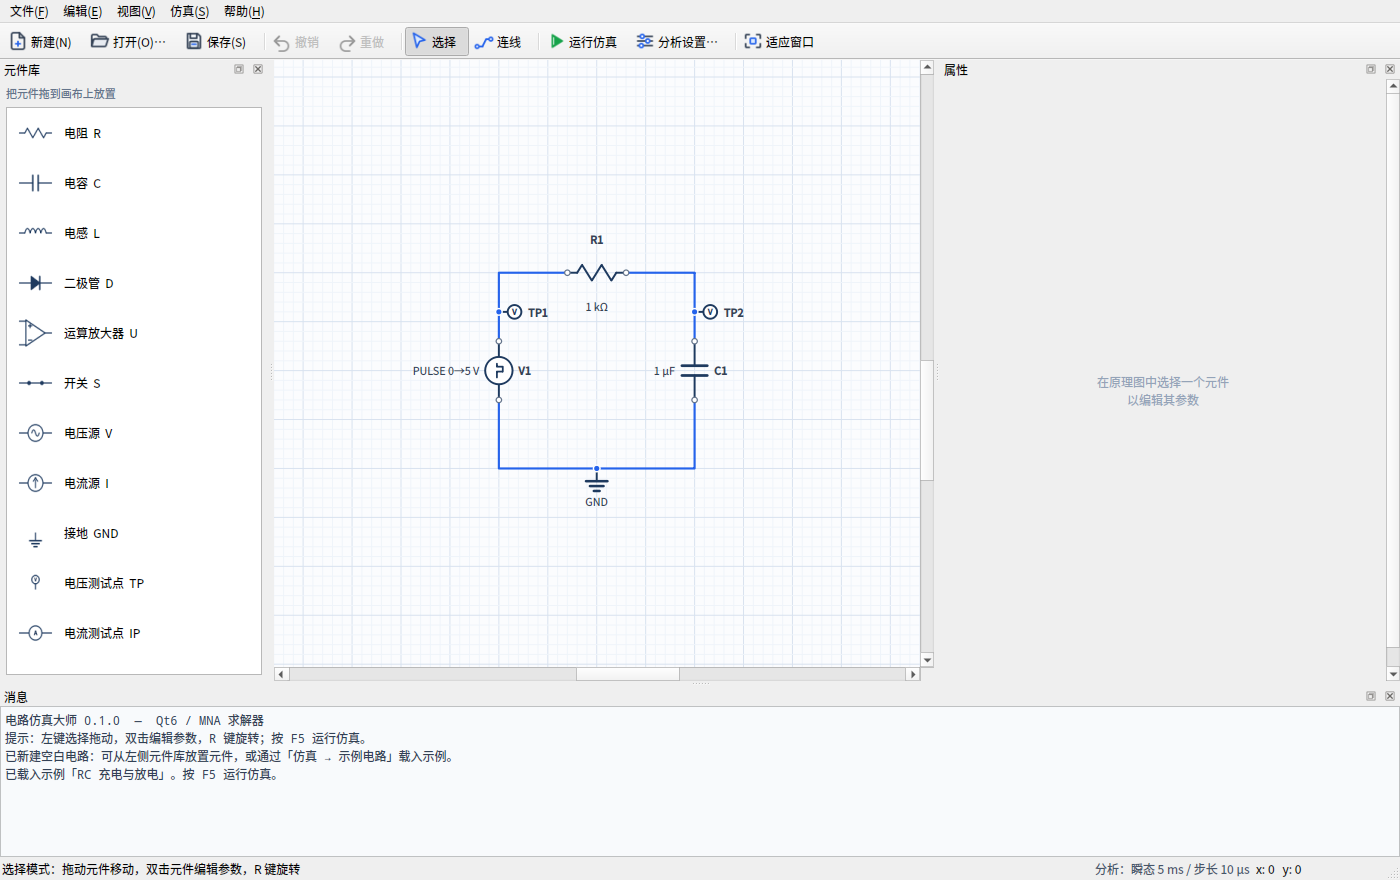
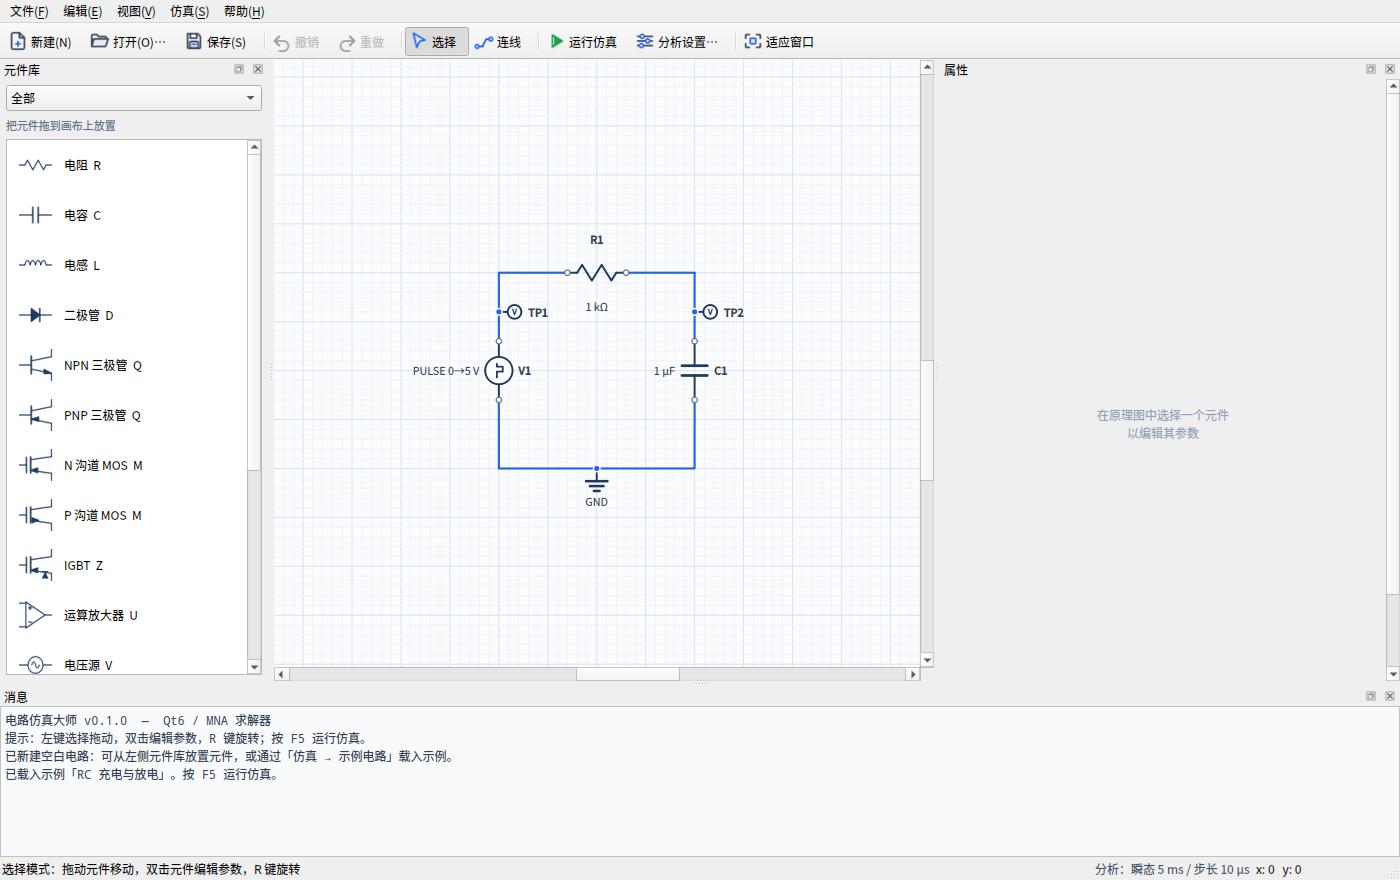
feat(ui): 元件库改为分类下拉筛选
- 左侧元件库顶部新增下拉框：全部 / 基础 / 半导体 / 电源 / 开关与接地 / 测试点
- 元件按用途归类，切换分类只重建列表，拖拽行为不变
- 修复一个中文比较的坑：分类名用 QLatin1String 比较时，UTF-8 字节被按
  Latin-1 解释，与下拉框里的 QString 永远不相等，导致列表一开始是空的；
  改用 QStringLiteral
- 测试新增 libraryFiltersByCategory：校验各分类数量、总和与切回「全部」

diff --git a/src/ui/MainWindow.cpp b/src/ui/MainWindow.cpp
@@ -17,6 +17,7 @@
 
 #include <QAbstractItemView>
 #include <QAction>
+#include <QComboBox>
 #include <QActionGroup>
 #include <QApplication>
 #include <QCloseEvent>
@@ -591,30 +592,39 @@ void MainWindow::createToolBar()
 
 void MainWindow::buildLibrary()
 {
+    // 元件按用途分类；下拉框切换分类，列表只显示该类的元件
     struct Entry {
         ComponentType type;
         QString text;
+        QString category;
     };
     const QVector<Entry> entries = {
-        {ComponentType::Resistor, QStringLiteral("电阻  R")},
-        {ComponentType::Capacitor, QStringLiteral("电容  C")},
-        {ComponentType::Inductor, QStringLiteral("电感  L")},
-        {ComponentType::Diode, QStringLiteral("二极管  D")},
-        {ComponentType::Npn, QStringLiteral("NPN 三极管  Q")},
-        {ComponentType::Pnp, QStringLiteral("PNP 三极管  Q")},
-        {ComponentType::Nmos, QStringLiteral("N 沟道 MOS  M")},
-        {ComponentType::Pmos, QStringLiteral("P 沟道 MOS  M")},
-        {ComponentType::Igbt, QStringLiteral("IGBT  Z")},
-        {ComponentType::OpAmp, QStringLiteral("运算放大器  U")},
-        {ComponentType::Switch, QStringLiteral("开关  S")},
-        {ComponentType::VoltageSource, QStringLiteral("电压源  V")},
-        {ComponentType::CurrentSource, QStringLiteral("电流源  I")},
-        {ComponentType::Ground, QStringLiteral("接地  GND")},
-        {ComponentType::Probe, QStringLiteral("电压测试点  TP")},
-        {ComponentType::CurrentProbe, QStringLiteral("电流测试点  IP")},
+        {ComponentType::Resistor, QStringLiteral("电阻  R"), QStringLiteral("基础")},
+        {ComponentType::Capacitor, QStringLiteral("电容  C"), QStringLiteral("基础")},
+        {ComponentType::Inductor, QStringLiteral("电感  L"), QStringLiteral("基础")},
+        {ComponentType::Diode, QStringLiteral("二极管  D"), QStringLiteral("半导体")},
+        {ComponentType::Npn, QStringLiteral("NPN 三极管  Q"), QStringLiteral("半导体")},
+        {ComponentType::Pnp, QStringLiteral("PNP 三极管  Q"), QStringLiteral("半导体")},
+        {ComponentType::Nmos, QStringLiteral("N 沟道 MOS  M"), QStringLiteral("半导体")},
+        {ComponentType::Pmos, QStringLiteral("P 沟道 MOS  M"), QStringLiteral("半导体")},
+        {ComponentType::Igbt, QStringLiteral("IGBT  Z"), QStringLiteral("半导体")},
+        {ComponentType::OpAmp, QStringLiteral("运算放大器  U"), QStringLiteral("半导体")},
+        {ComponentType::VoltageSource, QStringLiteral("电压源  V"), QStringLiteral("电源")},
+        {ComponentType::CurrentSource, QStringLiteral("电流源  I"), QStringLiteral("电源")},
+        {ComponentType::Switch, QStringLiteral("开关  S"), QStringLiteral("开关与接地")},
+        {ComponentType::Ground, QStringLiteral("接地  GND"), QStringLiteral("开关与接地")},
+        {ComponentType::Probe, QStringLiteral("电压测试点  TP"), QStringLiteral("测试点")},
+        {ComponentType::CurrentProbe, QStringLiteral("电流测试点  IP"), QStringLiteral("测试点")},
     };
 
+    const QString category = m_libraryCategory ? m_libraryCategory->currentText() : QString();
+    // 注意用 QStringLiteral：QLatin1String 会把 UTF-8 字节按 Latin-1 解释，
+    // 与下拉框里的 QString 永远不相等，列表会变成空的
+    const bool showAll = category.isEmpty() || category == QStringLiteral("全部");
+
     for (const Entry& entry : entries) {
+        if (!showAll && entry.category != category)
+            continue;
         auto* item = new QListWidgetItem(componentIcon(entry.type), entry.text, m_library);
         item->setData(Qt::UserRole, int(entry.type));
         item->setSizeHint(QSize(0, 46));
@@ -632,6 +642,16 @@ void MainWindow::createDocks()
     libraryLayout->setContentsMargins(6, 6, 6, 6);
     libraryLayout->setSpacing(6);
 
+    m_libraryCategory = new QComboBox(libraryContainer);
+    m_libraryCategory->addItem(QStringLiteral("全部"));
+    for (const QString& name : {QStringLiteral("基础"), QStringLiteral("半导体"),
+                                QStringLiteral("电源"), QStringLiteral("开关与接地"),
+                                QStringLiteral("测试点")}) {
+        m_libraryCategory->addItem(name);
+    }
+    m_libraryCategory->setToolTip(QStringLiteral("按类别筛选元件"));
+    libraryLayout->addWidget(m_libraryCategory);
+
     auto* hint = new QLabel(QStringLiteral("把元件拖到画布上放置"), libraryContainer);
     hint->setWordWrap(true);
     hint->setStyleSheet(QStringLiteral("color:#64748b; font-size:11px;"));
@@ -645,6 +665,12 @@ void MainWindow::createDocks()
     libraryDock->setWidget(libraryContainer);
     addDockWidget(Qt::LeftDockWidgetArea, libraryDock);
     buildLibrary();
+
+    connect(m_libraryCategory, QOverload<int>::of(&QComboBox::currentIndexChanged), this,
+            [this] {
+                m_library->clear();
+                buildLibrary();
+            });
 
     auto* propsDock = new QDockWidget(QStringLiteral("属性"), this);
     propsDock->setObjectName(QStringLiteral("propsDock"));

diff --git a/tests/test_ui.cpp b/tests/test_ui.cpp
@@ -13,6 +13,7 @@
 
 #include <QAction>
 #include <QApplication>
+#include <QComboBox>
 #include <QDir>
 #include <QFileInfo>
 #include <QPixmap>
@@ -385,6 +386,55 @@ private slots:
         }
         QVERIFY2(opaque > 0, "拖影为空");
         QVERIFY2(bluish < opaque / 2, "拖影仍带有蓝色选中背景");
+    }
+
+    void libraryFiltersByCategory()
+    {
+        MainWindow window;
+        window.resize(1200, 800);
+        window.show();
+        waitShown(window);
+
+        QListWidget* library = nullptr;
+        for (QListWidget* list : window.findChildren<QListWidget*>()) {
+            if (list->count() > 0 && list->item(0)->text().contains(QStringLiteral("电阻")))
+                library = list;
+        }
+        QVERIFY(library);
+        const int allCount = library->count();
+        QVERIFY(allCount >= 16);
+
+        QComboBox* category = nullptr;
+        for (QComboBox* box : window.findChildren<QComboBox*>()) {
+            if (box->count() > 0 && box->itemText(0) == QStringLiteral("全部"))
+                category = box;
+        }
+        QVERIFY(category);
+        QCOMPARE(category->count(), 6);
+
+        // 每个分类都应当有内容，且加起来不超过全部
+        QMap<QString, int> counts;
+        for (int i = 1; i < category->count(); ++i) {
+            category->setCurrentIndex(i);
+            settle();
+            counts.insert(category->currentText(), library->count());
+            QVERIFY2(library->count() > 0,
+                     qPrintable(QStringLiteral("分类为空: ") + category->currentText()));
+        }
+
+        QCOMPARE(counts.value(QStringLiteral("基础")), 3);
+        QCOMPARE(counts.value(QStringLiteral("电源")), 2);
+        QCOMPARE(counts.value(QStringLiteral("半导体")), 7);
+
+        int sum = 0;
+        for (int n : counts)
+            sum += n;
+        QCOMPARE(sum, allCount);
+
+        // 切回「全部」应恢复完整列表
+        category->setCurrentIndex(0);
+        settle();
+        QCOMPARE(library->count(), allCount);
     }
 
     void transistorSymbolsRender()

diff --git a/src/ui/MainWindow.h b/src/ui/MainWindow.h
@@ -7,6 +7,7 @@
 #include <QMainWindow>
 
 class QAction;
+class QComboBox;
 class QDockWidget;
 class QLabel;
 class QListWidget;
@@ -76,6 +77,7 @@ private:
     WaveformWindow* m_wave = nullptr;
     QPlainTextEdit* m_log = nullptr;
     QListWidget* m_library = nullptr;
+    QComboBox* m_libraryCategory = nullptr;
     QLabel* m_coordLabel = nullptr;
     QLabel* m_hintLabel = nullptr;
     QLabel* m_analysisLabel = nullptr;

diff --git a/README.md b/README.md
@@ -13,8 +13,8 @@
 - 撤销 / 重做（Ctrl+Z / Ctrl+Shift+Z），覆盖放置、移动、删除、粘贴与参数修改
 - 框选后可整体拖动（元件与导线一起移动，连接关系保持不变）
 - 元件右键菜单：旋转 90°、水平翻转、垂直翻转、复制/粘贴（Ctrl+C / Ctrl+V）、编辑属性、删除
-- 元件库：电阻、电容、电感、二极管、三极管（NPN/PNP）、MOS 管（N/P 沟道）、
-  IGBT、运算放大器、开关、电压/电流源、接地
+- 元件库：顶部下拉框按「基础 / 半导体 / 电源 / 开关与接地 / 测试点」分类筛选，
+  拖到画布上放置
 - 折线导线绘制：端点自动吸附引脚，T 型连接与交叉点自动生成连接圆点
 - 双击元件或选中后在右侧属性面板编辑参数，数值可直接带单位：`10kΩ`、`4.7µF`、`10mH`、`5V`、`1mA`；
   不写单位时按元件默认单位（Ω/F/H/V/A）

diff --git a/CHANGELOG.md b/CHANGELOG.md
@@ -14,6 +14,8 @@
   MOS 管用 level-1 平方律模型，参数是开启电压 Vth 与跨导参数 K；
   IGBT 按「MOS 栅极 + 导通压降 Vf」简化。
   工作点、瞬态与交流分析都可用，导出的 SPICE 网表带对应 `.model` 卡。
+- 元件库顶部加了分类下拉框（基础 / 半导体 / 电源 / 开关与接地 / 测试点），
+  元件多了以后不用再一路往下滚。
 
 ## [v0.1.0] - 2026-11-14
 
